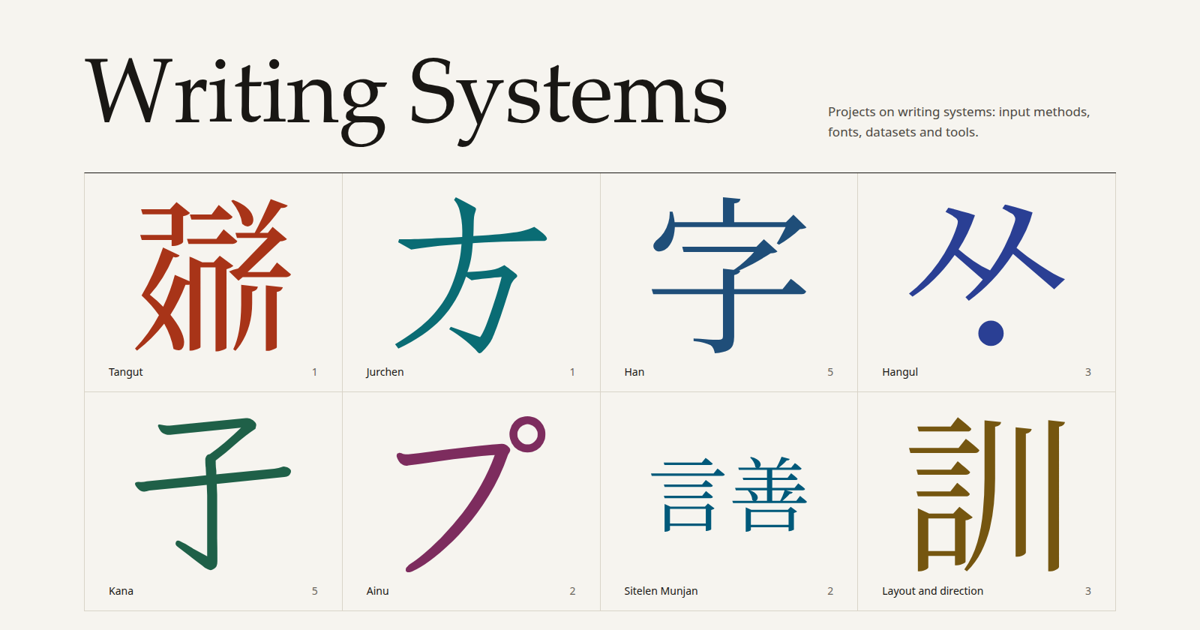
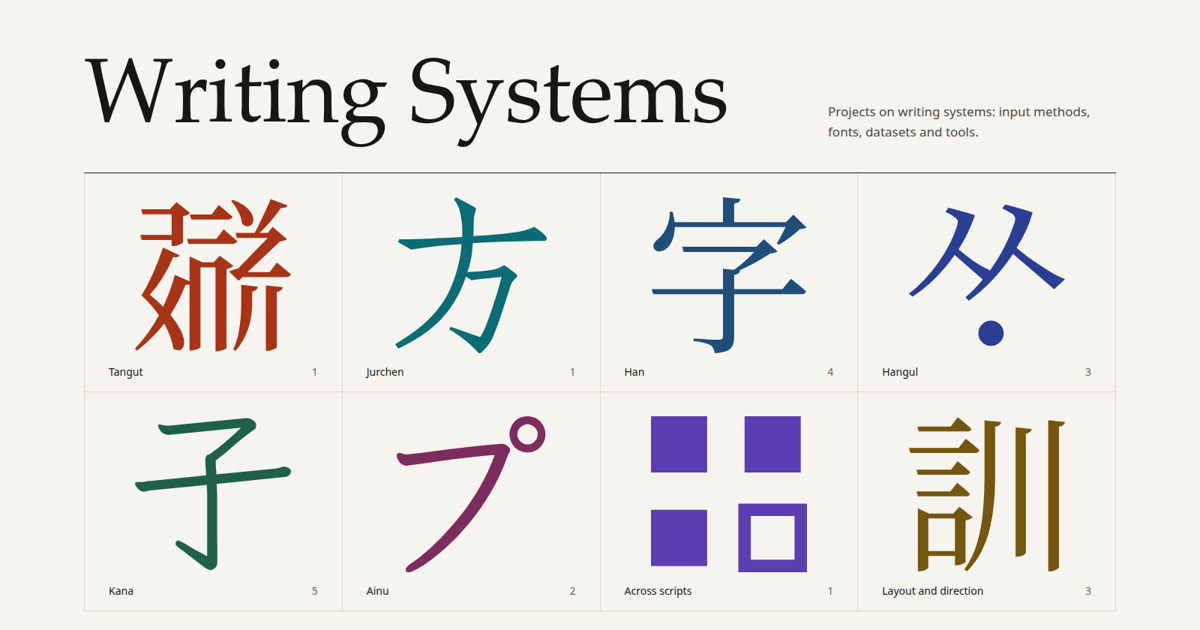
feat: give Glyph Atlas a section across scripts

Changed region(s): [[0.5242, 0.6333, 0.6783, 0.9349], [0.5242, 0.9349, 0.5858, 0.9651]]

diff --git a/src/page.ts b/src/page.ts
@@ -41,8 +41,8 @@ export interface Work {
 
 export interface Chapter {
   id: string
-  code: string
-  font: string
+  code?: string
+  font?: string
   source?: string
   accent: string[]
   works: Work[]
@@ -195,7 +195,7 @@ function chapter(c: Chapter, t: Catalogue): string {
 <div>
 <h2 class="chapter-name">${esc(t['chapter.' + c.id]!)}</h2>
 <p class="note">${note}</p>
-<p class="meta">${c.code} · ${esc(c.font)}</p>
+${c.font ? `<p class="meta">${c.code} · ${esc(c.font)}</p>` : ''}
 </div>
 </div></div>
 <div class="body">
@@ -215,7 +215,7 @@ export function renderPage(key: Locale): string {
 <span class="tile-label"><span>${esc(t['chapter.' + c.id]!)}</span><span class="tile-count">${c.works.length}</span></span>
 </a>`,
   ).join('\n')
-  const fonts = [...new Set(CHAPTERS.map((c) => c.font))].join(' · ')
+  const fonts = [...new Set(CHAPTERS.flatMap((c) => c.font ?? []))].join(' · ')
   return `<!doctype html>
 <html lang="${key}">
 ${head(locale, t)}

diff --git a/public/site.css b/public/site.css
@@ -125,9 +125,6 @@ h1 {
   transition: background-color 160ms ease, color 160ms ease;
 }
 
-/* Seven tiles: the last spans two cells, at four columns and at two, so that no cell is left empty. */
-.tile:last-child { grid-column: span 2; }
-
 .tile-glyph { display: block; width: min(100%, 13rem); margin-inline: auto; aspect-ratio: 1; }
 .tile-glyph svg, .glyph svg { width: 100%; height: 100%; }
 

diff --git a/scripts/specimens.py b/scripts/specimens.py
@@ -29,6 +29,10 @@ SPECIMENS = {
 }
 
 
+# Across scripts has no one character to show, so it takes the Glyph Atlas logo.
+LOGOS = {"across": {"viewBox": "4 4 25 25", "d": "M4 4h9v9H4zM19 4h9v9h-9zM4 19h9v9H4zM18 18h11v11H18zM20 20v7h7v-7z"}}
+
+
 def draw(text: str, path: Path) -> dict[str, str]:
     font = TTFont(path)
     buffer = io.BytesIO()
@@ -67,6 +71,7 @@ def draw(text: str, path: Path) -> dict[str, str]:
 def main() -> None:
     root = Path(sys.argv[1])
     drawn = {key: draw(text, root / font) for key, (text, font) in SPECIMENS.items()}
+    drawn.update(LOGOS)
     out = Path(__file__).parent.parent / "content/specimens.json"
     out.write_text(json.dumps(drawn, ensure_ascii=False) + "\n")
 
